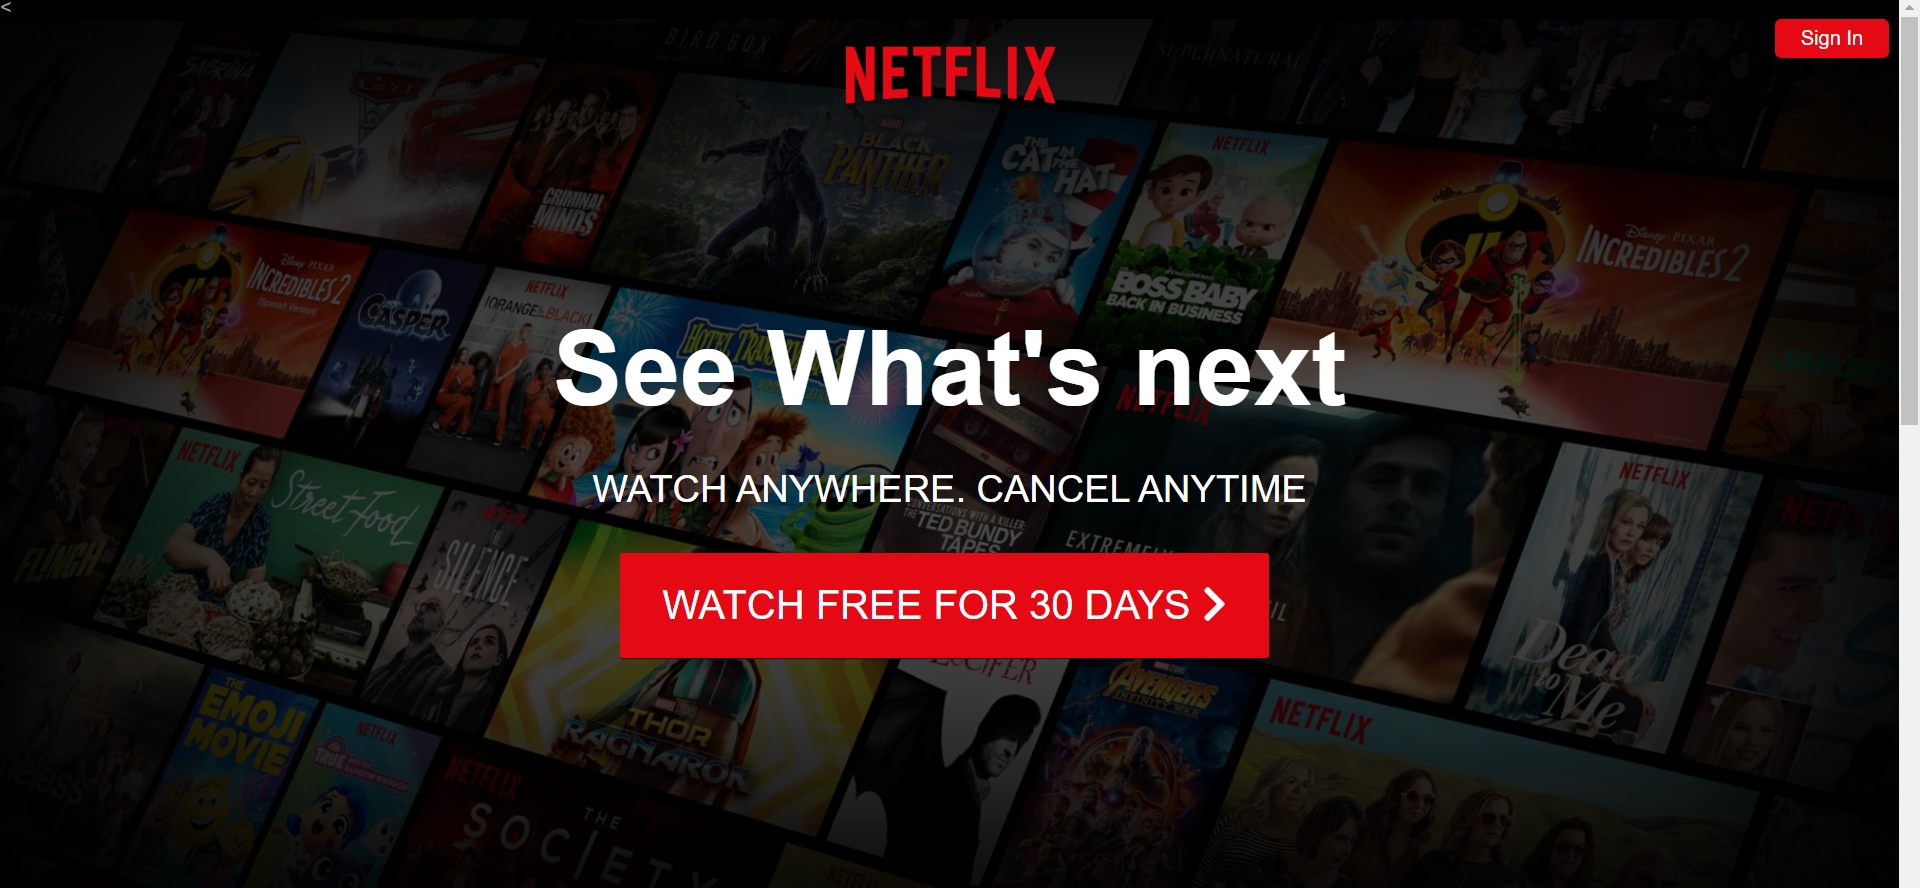
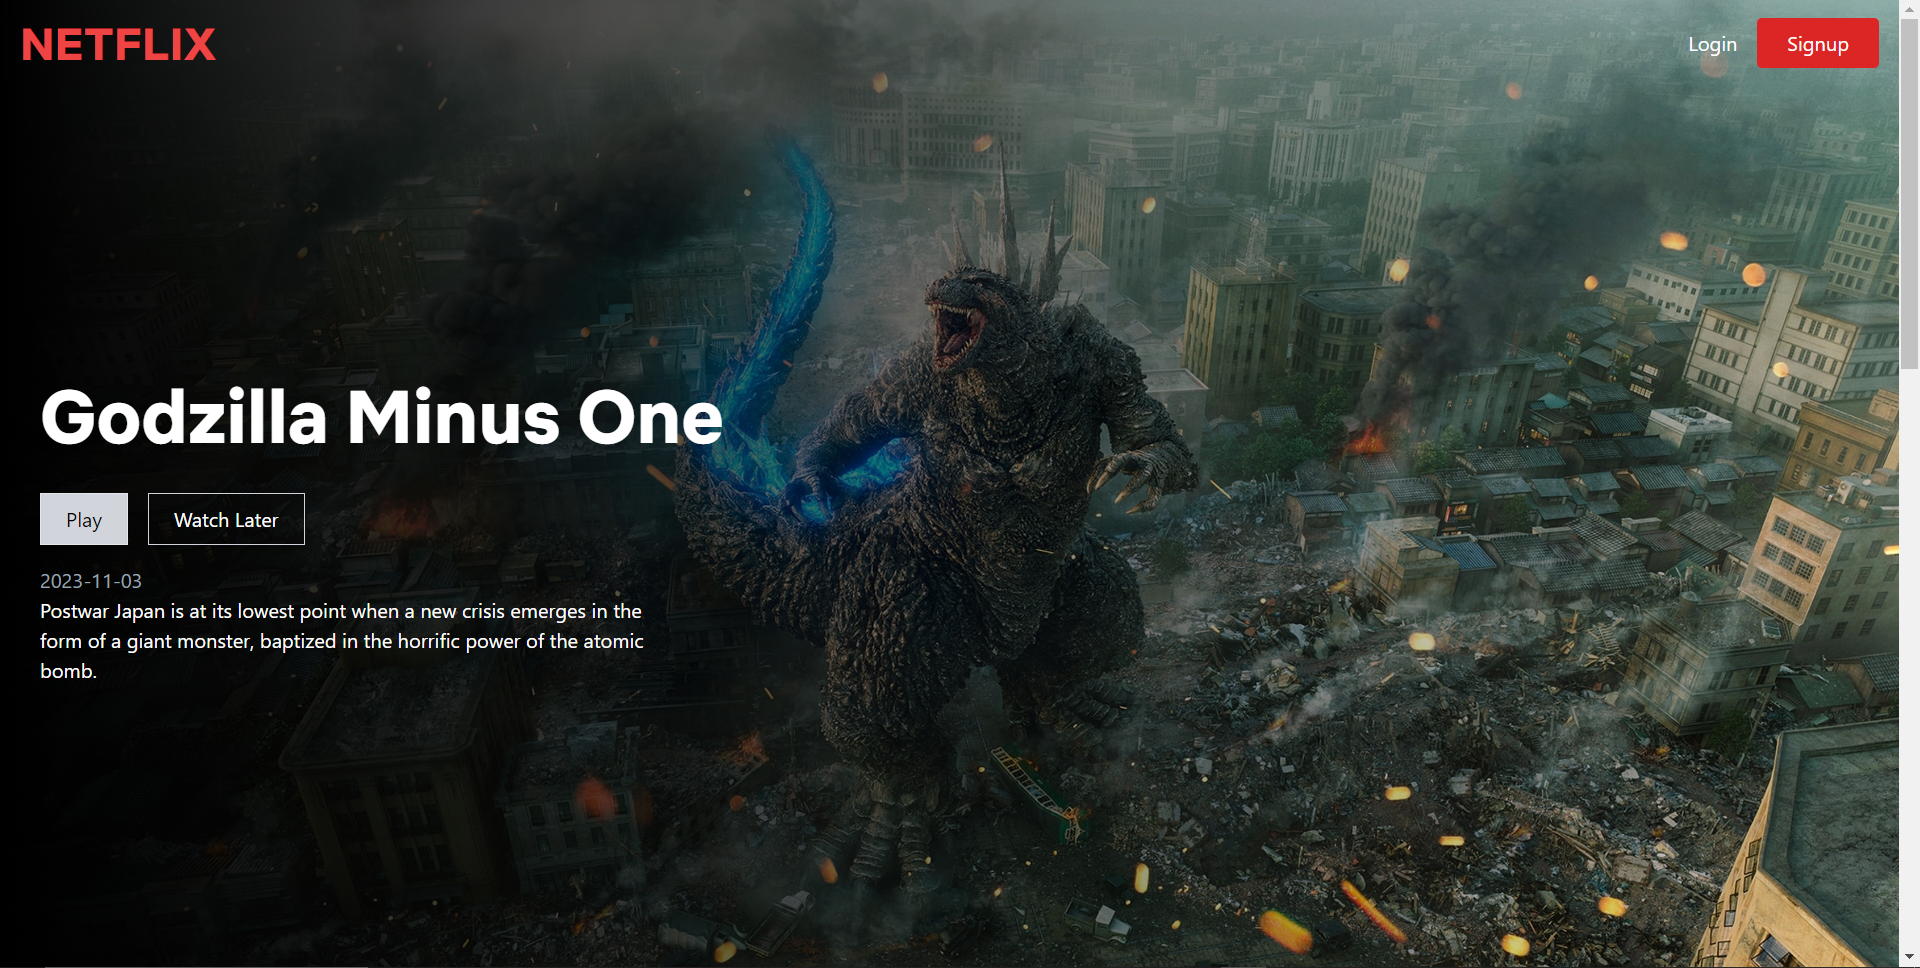
Updated Project

diff --git a/src/components/Projects/Projects.js b/src/components/Projects/Projects.js
@@ -24,10 +24,12 @@ function Projects() {
               imgPath={Netflix}
               isBlog={false}
               title="Netflix Clone"
-              description="• Designed a visually appealing and modern UI for a Netflix clone, focusing on enhancing the user experience. 
-              Developed a responsive interface with tab shifting functionality,ensuring seamless content display across various devices."
-              ghLink="https://github.com/GUGGILAM-SAI-PRABHAT/NETFLIX_CLONE"
-              demoLink = "https://guggilam-sai-prabhat.github.io/NETFLIX_CLONE/index.html"
+              description="Developed a responsive web application featuring user authentication, 
+              real-time database interactions, a favorites system, and Firebase hosting, highlighting full-stack development capabilities. 
+              Integrated with The Movie Database (TMDB) API for dynamic movie content display, showcasing expertise in API utilization and data management. 
+              Used TailwindCSS for design, emphasizing responsive and modern web development practices."
+              
+              demoLink = "https://netflixy-c8d03.web.app/"
             />
           </Col>
 
